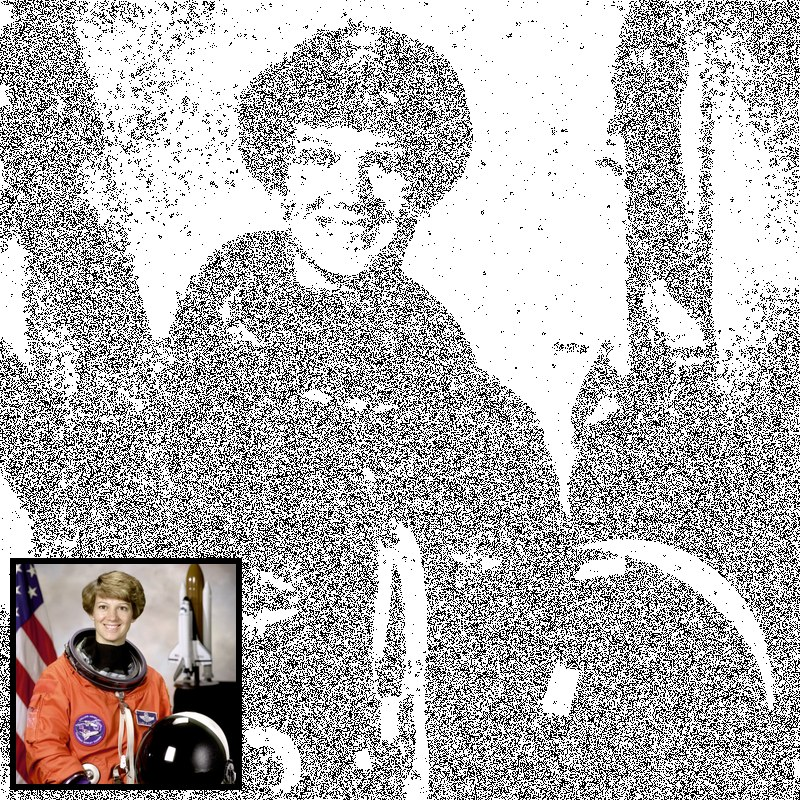
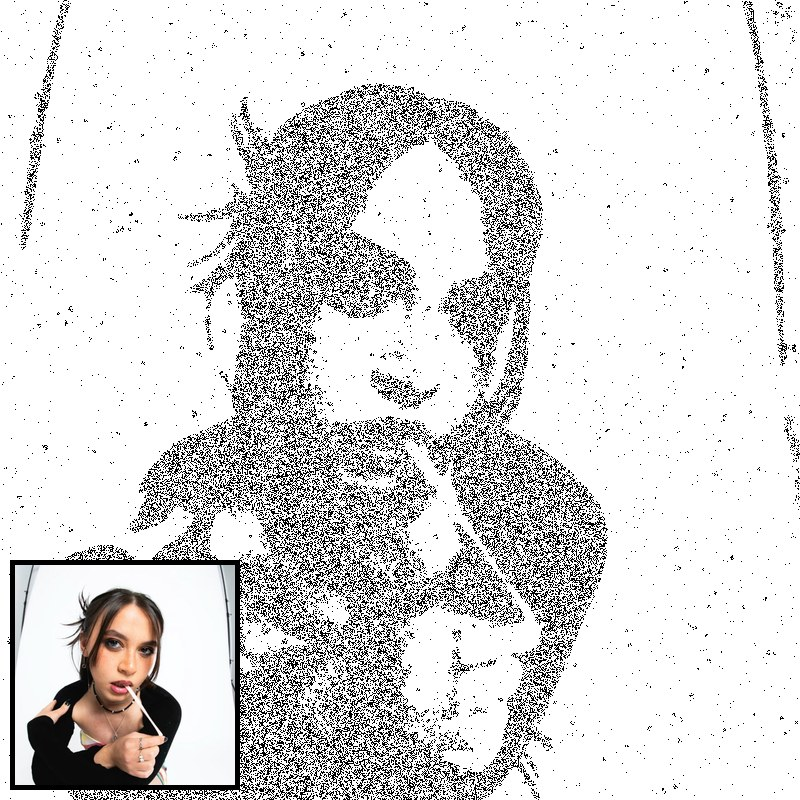
Use Levi's editorial portraits for all README examples
Re-render the header image, the eight looks, the structure grid, the
shirt mockups and the upscaling comparison from five photos Levi
provided and holds the rights to. Update captions and the photo credit.

Claude-Session: https://claude.ai/code/session_019ombwHMkVDeBbWJ7Y3vxGz

diff --git a/README.md b/README.md
@@ -17,7 +17,7 @@
 </p>
 
 <p align="center">
-  <img src="docs/hero.png" width="720" alt="A cat photo on the left and the same photo turned into a black and white ink graphic by Bitmap Bananza on the right" />
+  <img src="docs/hero.png" width="720" alt="A colour portrait on the left and the same photo turned into a black and white ink graphic by Bitmap Bananza on the right" />
 </p>
 
 <p align="center">
@@ -60,7 +60,7 @@ Each look sets every control at once and works as a starting point. The small pi
     <td align="center"><img src="docs/examples/look-hardPoster.jpg" alt="Hard Poster" width="400" /><br /><b>Hard Poster</b><br /><sub>Big bold areas</sub></td>
   </tr>
   <tr>
-    <td align="center"><img src="docs/examples/look-highDetailInk.jpg" alt="Detail Ink" width="400" /><br /><b>Detail Ink</b><br /><sub>Every whisker and hair</sub></td>
+    <td align="center"><img src="docs/examples/look-highDetailInk.jpg" alt="Detail Ink" width="400" /><br /><b>Detail Ink</b><br /><sub>Every strand of hair</sub></td>
     <td align="center"><img src="docs/examples/look-softNewspaper.jpg" alt="Newspaper" width="400" /><br /><b>Newspaper</b><br /><sub>Fine dot screen</sub></td>
   </tr>
   <tr>
@@ -102,8 +102,8 @@ Results shown in one ink on a shirt colour, the way they come off a screen print
 <table>
   <tr>
     <td align="center"><img src="docs/examples/shirt-1.png" alt="White ink on charcoal" width="270" /><br /><b>White ink on charcoal</b><br /><sub>Detail Ink, inverted</sub></td>
-    <td align="center"><img src="docs/examples/shirt-2.png" alt="Black ink on natural" width="270" /><br /><b>Black ink on natural</b><br /><sub>Detail Ink</sub></td>
-    <td align="center"><img src="docs/examples/shirt-3.png" alt="White ink on red" width="270" /><br /><b>White ink on red</b><br /><sub>Hard Poster, inverted</sub></td>
+    <td align="center"><img src="docs/examples/shirt-2.png" alt="Black ink on natural" width="270" /><br /><b>Black ink on natural</b><br /><sub>Logo Cleanup</sub></td>
+    <td align="center"><img src="docs/examples/shirt-3.png" alt="White ink on red" width="270" /><br /><b>White ink on red</b><br /><sub>Hard Poster</sub></td>
   </tr>
 </table>
 
@@ -119,7 +119,7 @@ Bitmap Bananza enlarges the photo first and only then converts it, so even a sma
   </tr>
 </table>
 
-<sub>All examples are rendered with the app's own engine. Photos: astronaut Eileen Collins (NASA, public domain), cat Chelsea by Stefan van der Walt (CC0), espresso by Rachel Michetti (CC0), Falcon 9 launch (SpaceX, public domain), all taken from the scikit-image sample data.</sub>
+<sub>All examples are rendered with the app's own engine. Example photos are used with permission, all rights stay with their owners.</sub>
 
 ## Every option
 
